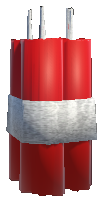
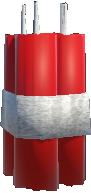
random ranges for card art is a Vector2

diff --git a/Assets/Scripts/Card Scripts/CardVisualPresenter.cs b/Assets/Scripts/Card Scripts/CardVisualPresenter.cs
@@ -40,7 +40,8 @@ public class CardVisualPresenter : MonoBehaviour
     [Header("Pin Randomisation")]
     [SerializeField] private Vector2 zPositionRange;
     [SerializeField] private Vector2 zRotationRange;
-    [SerializeField] private Vector2 sizeRange;
+    [SerializeField] private Vector2 sizeRangeX;
+    [SerializeField] private Vector2 sizeRangeY;
     
     // ai https://share.gemini.google/eZpLzfcrjY4M
     // I want a slight variation in tint colour so all the card backgrounds don't look exactly the same.
@@ -177,8 +178,9 @@ public class CardVisualPresenter : MonoBehaviour
                 float randomZRot = Random.Range(zRotationRange.x, zRotationRange.y);
                 pinRect.localEulerAngles = new Vector3(0f, 0f, randomZRot);
 
-                float randomScale = Random.Range(sizeRange.x, sizeRange.y);
-                pinRect.localScale = new Vector3(randomScale, randomScale, 1f);
+                float randomScaleX = Random.Range(sizeRangeX.x, sizeRangeX.y);
+                float randomScaleY = Random.Range(sizeRangeY.x, sizeRangeY.y);
+                pinRect.localScale = new Vector3(randomScaleX, randomScaleY, 1f);
             }
             else
             {
